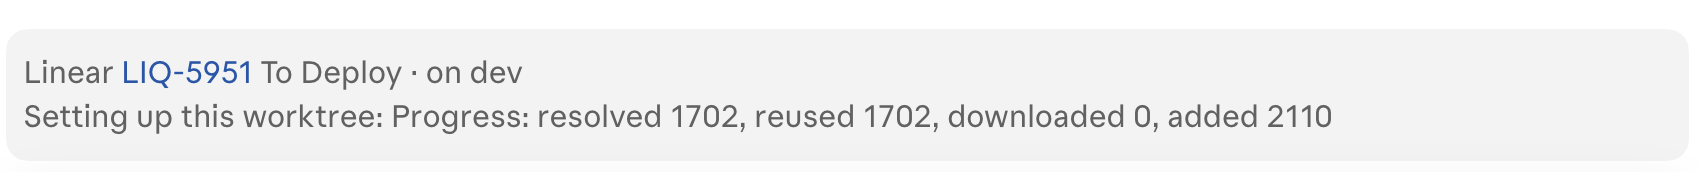
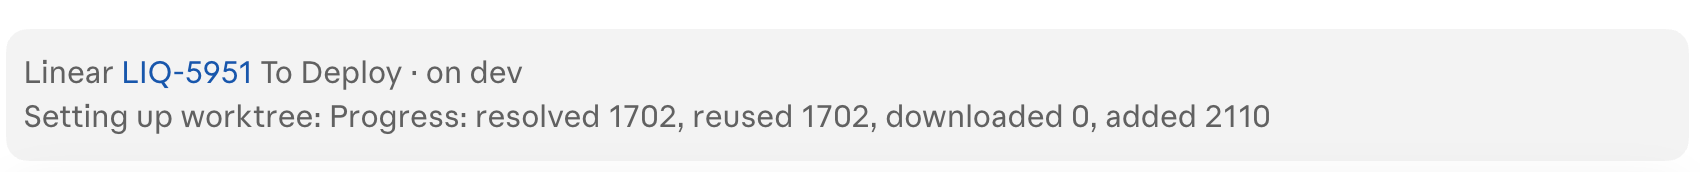
worktree-warmup: Setting up worktree, without this

Changed region(s): [[0.0935, 0.6105, 0.7794, 0.7849]]

diff --git a/plugins/worktree-warmup/tests/worktree-warmup.test.tsx b/plugins/worktree-warmup/tests/worktree-warmup.test.tsx
@@ -163,8 +163,8 @@ test('makes a command that needs dependencies wait for the setup', async ($, on)
   const { clock, commands } = await start($, on, { gate })
   const ui = await $.ui.mount({ ...BAND, surface: 'desktop' })
 
-  expect((await ui.find({ type: 'Text', text: /^Setting up this worktree/ }))?.text).toBe(
-    'Setting up this worktree: starting',
+  expect((await ui.find({ type: 'Text', text: /^Setting up worktree/ }))?.text).toBe(
+    'Setting up worktree: starting',
   )
   await ui.unmount()
 

diff --git a/plugins/worktree-warmup/hooks/register.tsx b/plugins/worktree-warmup/hooks/register.tsx
@@ -227,7 +227,7 @@ export const register: Register = (on, options) => {
     let row = <Text dimColor>Worktree ready in {seconds}s</Text>
 
     if (current.status === 'running') {
-      row = <Text dimColor>Setting up this worktree: {current.lastLine || 'starting'}</Text>
+      row = <Text dimColor>Setting up worktree: {current.lastLine || 'starting'}</Text>
     }
 
     if (current.status === 'failed') {

diff --git a/plugins/worktree-warmup/README.md b/plugins/worktree-warmup/README.md
@@ -4,20 +4,20 @@ A new git worktree starts with no dependencies, so the first test run, push or `
 waits on an install. This plugin starts that install the moment a session opens in a new
 worktree, in the background, and shows its progress above the message box.
 
-<img src="images/row.png" width="850" alt="Above the message box: the status-bar row, then Setting up this worktree with pnpm's progress">
+<img src="images/row.png" width="850" alt="Above the message box: the status-bar row, then Setting up worktree with pnpm's progress">
 
 - **Ready before you need it:** in a worktree that has `pnpm-lock.yaml` and no current install
   (no `node_modules`, one older than the lockfile, or a generated file missing, as a reused
   worktree often has), it runs the setup command from the worktree's root, under the node
   version `.nvmrc` names when nvm is installed, so that version needs its own `pnpm`.
-- **Progress where you look:** `Setting up this worktree` with pnpm's latest line while it runs,
+- **Progress where you look:** `Setting up worktree` with pnpm's latest line while it runs,
   `Worktree ready in 38s` for half a minute when it is done, and `Worktree setup failed` with the
   last line and a Retry button when it is not. The full output lands in the worktree's git
   folder, `.git/worktrees/<name>/worktree-warmup.log`.
 - **No races:** while it runs, a command of Claude's that needs the dependencies (`pnpm`, `node`,
   `tsc`, `vitest`, `turbo`, `scripts/stack`, ...) waits for the setup to finish before it starts.
 - **Shares the row:** whatever other plugins show above the message box, such as status-bar,
-  stays there below its line.
+  keeps its own line in the same row.
 
 ## Install
 

diff --git a/README.md b/README.md
@@ -42,7 +42,7 @@ dependencies in the background and shows its progress above the message box, end
 `Worktree ready` or a failure with a Retry button. Claude's commands that need the dependencies
 wait for it. [More](plugins/worktree-warmup)
 
-<img src="plugins/worktree-warmup/images/row.png" width="850" alt="Above the message box: the status-bar row, then Setting up this worktree with pnpm's progress">
+<img src="plugins/worktree-warmup/images/row.png" width="850" alt="Above the message box: the status-bar row, then Setting up worktree with pnpm's progress">
 
 ## Install
 
